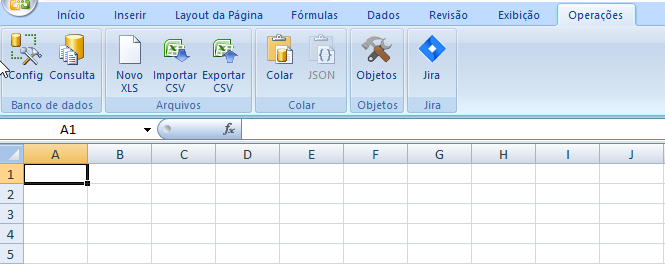
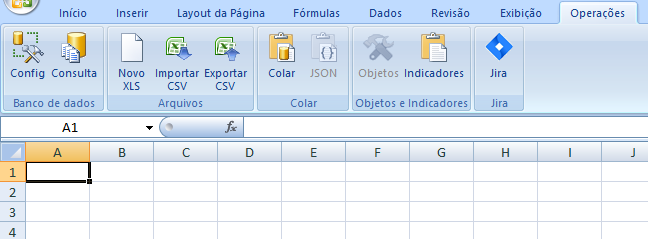
update do README.md

diff --git a/CAEd/Suplementos/Operacoes/README.md b/CAEd/Suplementos/Operacoes/README.md
@@ -60,6 +60,10 @@ Barra de ferramentas: Operações
 
 ![image1.png](https://github.com/difusao/Binary/blob/master/CAEd/Suplementos/Operacoes/images/img1.png)
 
+Busca de indicadores (13/05/2020)
+
+![image10.png](https://github.com/difusao/Binary/blob/master/CAEd/Suplementos/Operacoes/images/img10.png)
+
 Conexão com MSSQL Server: Config (01/04/2020)
 
 ![image2.png](https://github.com/difusao/Binary/blob/master/CAEd/Suplementos/Operacoes/images/img2.png)
